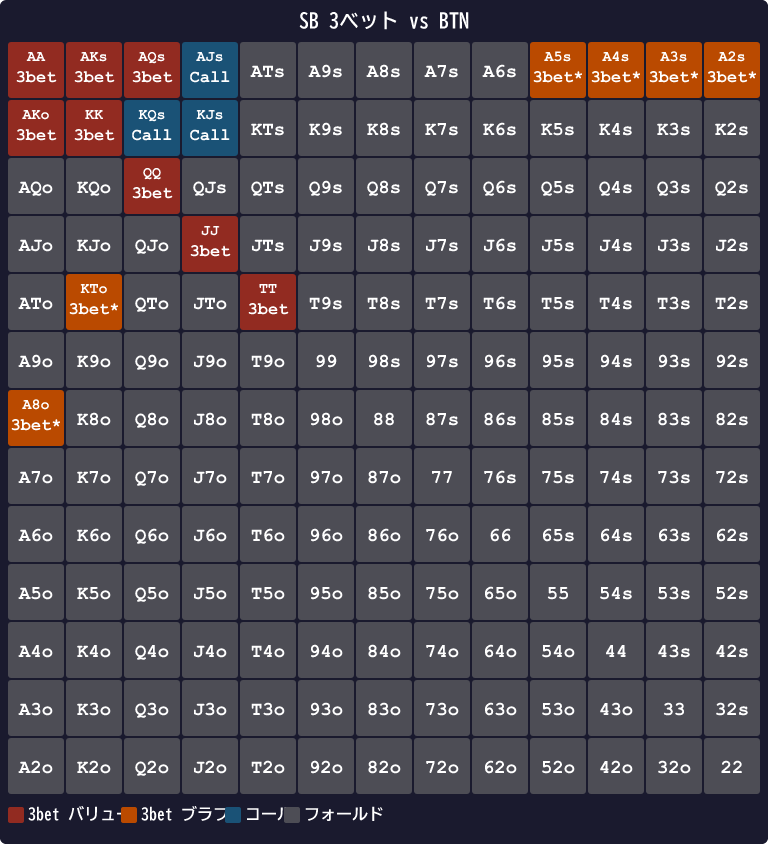
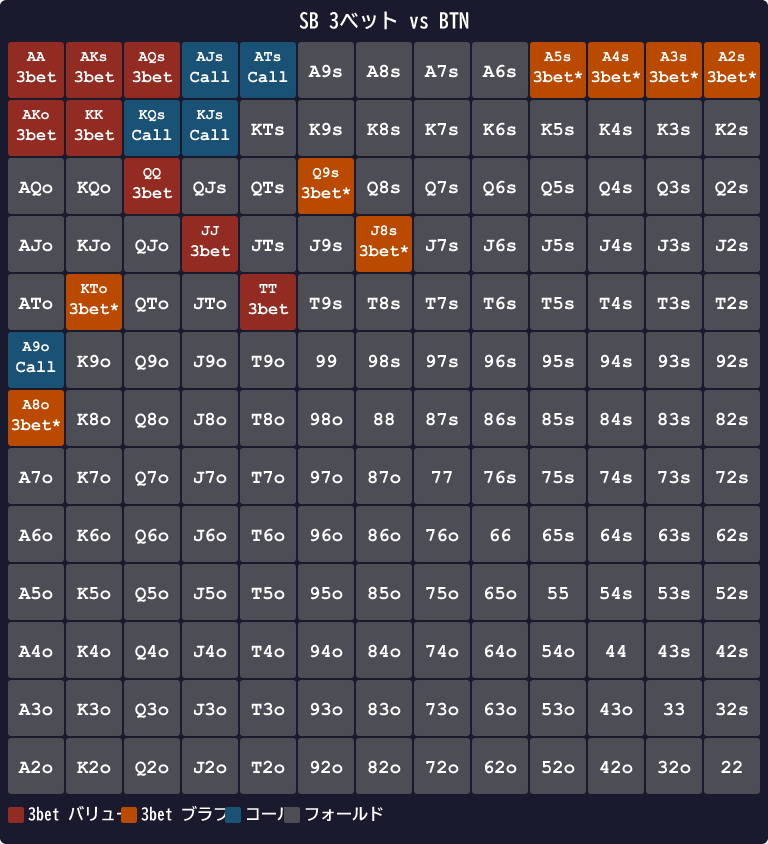
Fix range table image discrepancies vs chapter text
Formula fixes (scripts/generate-range-tables.ts calcScore):
- Suited bonus: +2 → +3 (ch05 text: スーテッド+3)
- Gap bonus: diff===2 only → diff===2 or 3 (ch05: ギャップ2以内 = 差2または3)
- Gap penalty: diff>=4 → diff>=5 (ch05: ギャップ4以上 = 差5以上)
  Affected hands: K3s 17→18, KTs 25→26.5, AKs 30→31 (now matches text examples)

Heatmap threshold markers (range-table-score-heatmap.png):
- UTG: 24 → 23 (matches ch05 threshold table)
- HJ→MP/SB (MP and SB share threshold 22; SB was missing)
- UTG label offset to lower row to avoid overlap with MP/SB

SB 3bet vs BTN range (range-table-sb-3bet-vs-btn.png):
- bluff3bet: added Q9s, J8s (listed in ch15 as ブラフ but were shown as fold)
- call: added ATs, A9o (listed in ch15 as 準バリュー but were shown as fold)

Changed region(s): [[0.375, 0.1848, 0.5625, 0.3389], [0.3125, 0.0308, 0.4062, 0.1232], [0.0, 0.3697, 0.0938, 0.4621]]

diff --git a/scripts/generate-range-tables.ts b/scripts/generate-range-tables.ts
@@ -150,10 +150,10 @@ function calcScore(r: number, c: number): number {
   const diff = loIdx - hiIdx;
   const isSuited = r < c;
   let score = hiRank + loRank;
-  if (isSuited) score += 2;
+  if (isSuited) score += 3;                   // スーテッド +3（章05テキストに合わせる）
   if (diff === 1) score += 1;
-  else if (diff === 2) score += 0.5;
-  else if (diff >= 4) score -= 1;
+  else if (diff === 2 || diff === 3) score += 0.5; // ギャップ2以内（差2または3）+0.5
+  else if (diff >= 5) score -= 1;             // 差5以上ペナルティ（ギャップ4以上）
   if (hiRank < 9 && loRank < 9) score -= 1;
   return score;
 }
@@ -235,7 +235,7 @@ function generateRFISVG(positions: Record<string, { hands: Set<string>; pct: str
 
 function generateScoreHeatmapSVG(): string {
   const titleH = 36;
-  const legendH = 50;
+  const legendH = 62; // UTGとMP/SBが近接するため2段表示分を確保
   const { tw, th } = gridDims(titleH, legendH);
   let s = svgOpen(tw, th);
   s += renderTitle(tw, "ハンドスコア ヒートマップ（AA=38 〜 72o=7）", PY + 21);
@@ -258,16 +258,17 @@ function generateScoreHeatmapSVG(): string {
     const bx = PX + (i * barW) / steps;
     s += `<rect x="${bx}" y="${barY}" width="${barW / steps + 1}" height="14" fill="${scoreToColor(score)}"/>`;
   }
-  // しきい値マーカー
-  for (const [score, label] of [
-    [24, "UTG≥24"],
-    [22, "HJ≥22"],
-    [20, "CO≥20"],
-    [18, "BTN≥18"],
-  ] as [number, string][]) {
+  // しきい値マーカー（UTGとMP/SBが近接するため交互2段表示）
+  for (const [score, label, row] of [
+    [23, "UTG≥23",   1],  // 下段（MP/SBと1点差のため段をずらす）
+    [22, "MP/SB≥22", 0],  // 上段
+    [20, "CO≥20",    0],  // 上段
+    [18, "BTN≥18",   0],  // 上段
+  ] as [number, string, number][]) {
     const bx = PX + ((score - 7) / 31) * barW;
     s += `<line x1="${bx}" y1="${barY - 2}" x2="${bx}" y2="${barY + 14}" stroke="#fff" stroke-width="2"/>`;
-    s += `<text x="${bx}" y="${barY + 32}" font-family="'Courier New',monospace" font-size="${FS_ANNOT}" font-weight="700" fill="#fff" text-anchor="middle">${label}</text>`;
+    const textY = row === 1 ? barY + 48 : barY + 32;
+    s += `<text x="${bx}" y="${textY}" font-family="'Courier New',monospace" font-size="${FS_ANNOT}" font-weight="700" fill="#fff" text-anchor="middle">${label}</text>`;
   }
   s += `<text x="${PX}" y="${barY + 32}" font-family="'Courier New',monospace" font-size="${FS_ANNOT}" fill="#fff">7</text>`;
   s += `<text x="${PX + barW}" y="${barY + 32}" font-family="'Courier New',monospace" font-size="${FS_ANNOT}" fill="#fff" text-anchor="end">38</text>`;
@@ -405,8 +406,8 @@ const bbDefVsBTN = [
 // ⑦ SB 3bet vs BTN（付録 ch15）
 const sbVsBTN = [
   { action: "value3bet", notation: "QQ+, AKs, AKo, JJ, TT, AQs" },
-  { action: "bluff3bet",  notation: "A5s, A4s, A3s, A2s, A8o, KTo" },
-  { action: "call",        notation: "AJs, KQs, KJs" },
+  { action: "bluff3bet",  notation: "A5s, A4s, A3s, A2s, A8o, KTo, Q9s, J8s" }, // Q9s/J8sを追加（ch15本文に明記）
+  { action: "call",        notation: "AJs, ATs, A9o, KQs, KJs" },                 // ATs/A9oを追加（準バリュー）
 ];
 
 // ⑨ 4betレンジ（付録 ch16）
